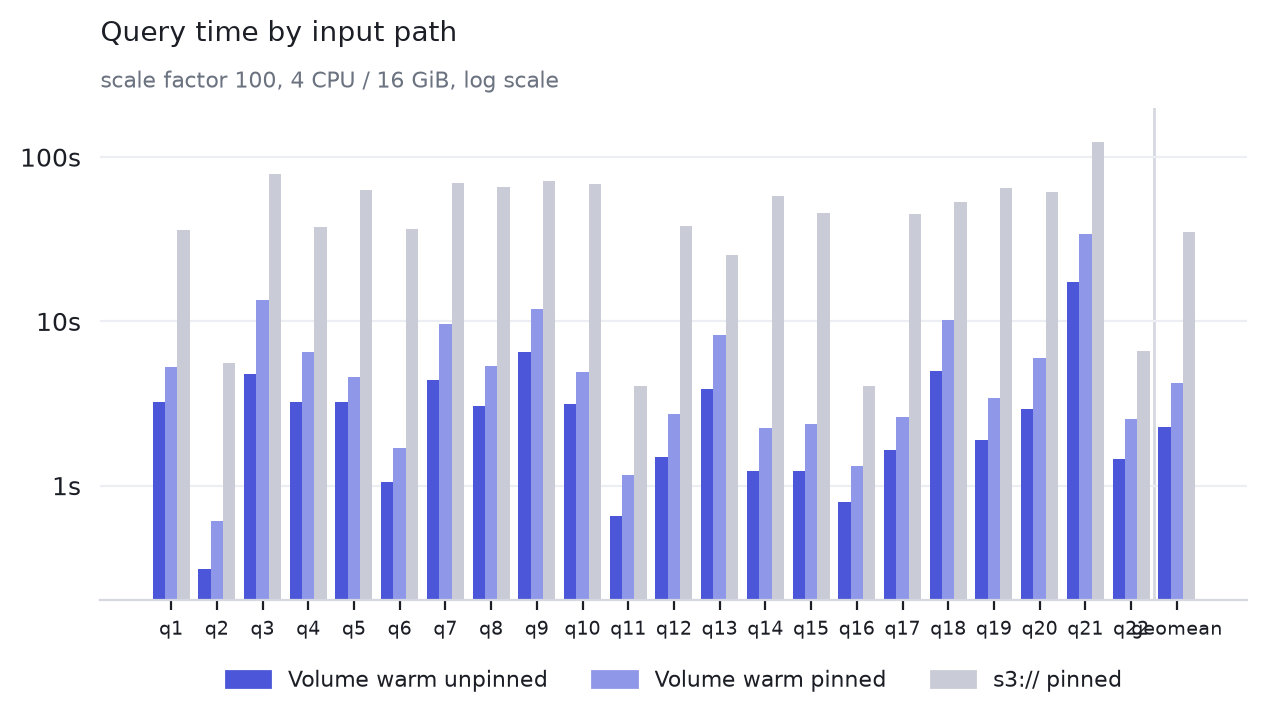
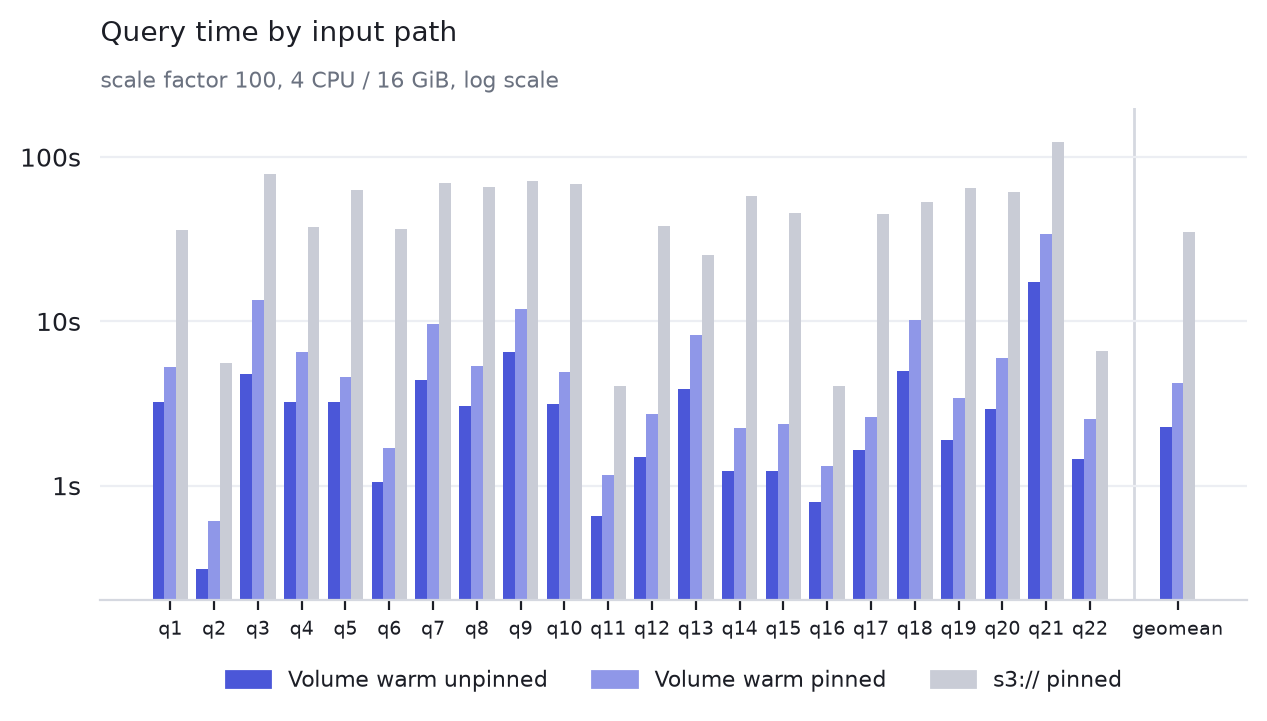
Polish benchmark chart layouts

Changed region(s): [[0.1231, 0.1526, 0.9542, 0.8849]]

diff --git a/docs/make_charts.py b/docs/make_charts.py
@@ -100,12 +100,12 @@ def input_path_chart() -> Path:
 
     fig, ax = plt.subplots(figsize=(7.4, 3.2))
     width = 0.27
-    slots = range(23)
+    slots = [*range(22), 23]
     for index, (label, seconds) in enumerate(INPUT_PATH_SECONDS.items()):
         values = [*seconds.values(), geomeans[index]]
         positions = [slot + (index - 1) * width for slot in slots]
         ax.bar(positions, values, width=width, color=COLORS[index], zorder=2)
-    ax.axvline(21.5, color="#d5d8e0", linewidth=1, zorder=1)
+    ax.axvline(22, color="#d5d8e0", linewidth=1, zorder=1)
     ax.set_yscale("log")
     ax.set_ylim(0.2, 200)
     ax.set_xticks(
@@ -201,16 +201,10 @@ def cost_chart() -> Path:
                 color=COLORS[2],
                 hatch="///",
                 edgecolor="#8d929e",
-                label="transfer not measurable" if position == 6 else None,
+                label="transfer not measurable (modeled range)"
+                if position == 6
+                else None,
                 zorder=2,
-            )
-            ax.text(
-                2.0,
-                position,
-                "transfer not measurable",
-                va="center",
-                fontsize=7,
-                color="#525866",
             )
             ax.text(34.44 * 1.04, position, "34.44 upper bound (modeled)", va="center")
         else:
@@ -228,7 +222,7 @@ def cost_chart() -> Path:
             formatted = f"${total:.3f}" if total < 1 else f"${total:.2f}"
             ax.text(total * 1.06, position, formatted, va="center", fontsize=8)
     ax.set_xscale("log")
-    ax.set_xlim(0.01, 45)
+    ax.set_xlim(0.01, 60)
     ax.set_yticks(positions, [row[0] for row in COST_ROWS], fontsize=8)
     ax.invert_yaxis()
     ax.set_xticks([0.01, 0.1, 1, 10], ["$0.01", "$0.10", "$1", "$10"])
@@ -238,7 +232,13 @@ def cost_chart() -> Path:
         "Cost per 22-query run",
         "compute + S3 transfer, log scale, transfer upper bound is modeled",
     )
-    ax.legend(frameon=False, loc="lower right", fontsize=7)
+    ax.legend(
+        frameon=False,
+        loc="upper center",
+        bbox_to_anchor=(0.5, -0.18),
+        ncols=3,
+        fontsize=7,
+    )
     path = OUT_DIR / "cost.png"
     fig.savefig(path, bbox_inches="tight")
     plt.close(fig)
@@ -266,7 +266,11 @@ def cumulative_cost_chart() -> Path:
     ax.set_ylim(0.01, 500)
     ax.set_xticks(runs)
     ax.set_xlabel("suite runs")
-    ax.set_ylabel("cumulative cost")
+    ax.set_yticks(
+        [0.01, 0.1, 1, 10, 100],
+        ["$0.01", "$0.10", "$1", "$10", "$100"],
+    )
+    ax.set_ylabel("cumulative cost, dollars")
     ax.grid(axis="y", color="#eceef3", zorder=1)
     ax.text(
         0.03,
